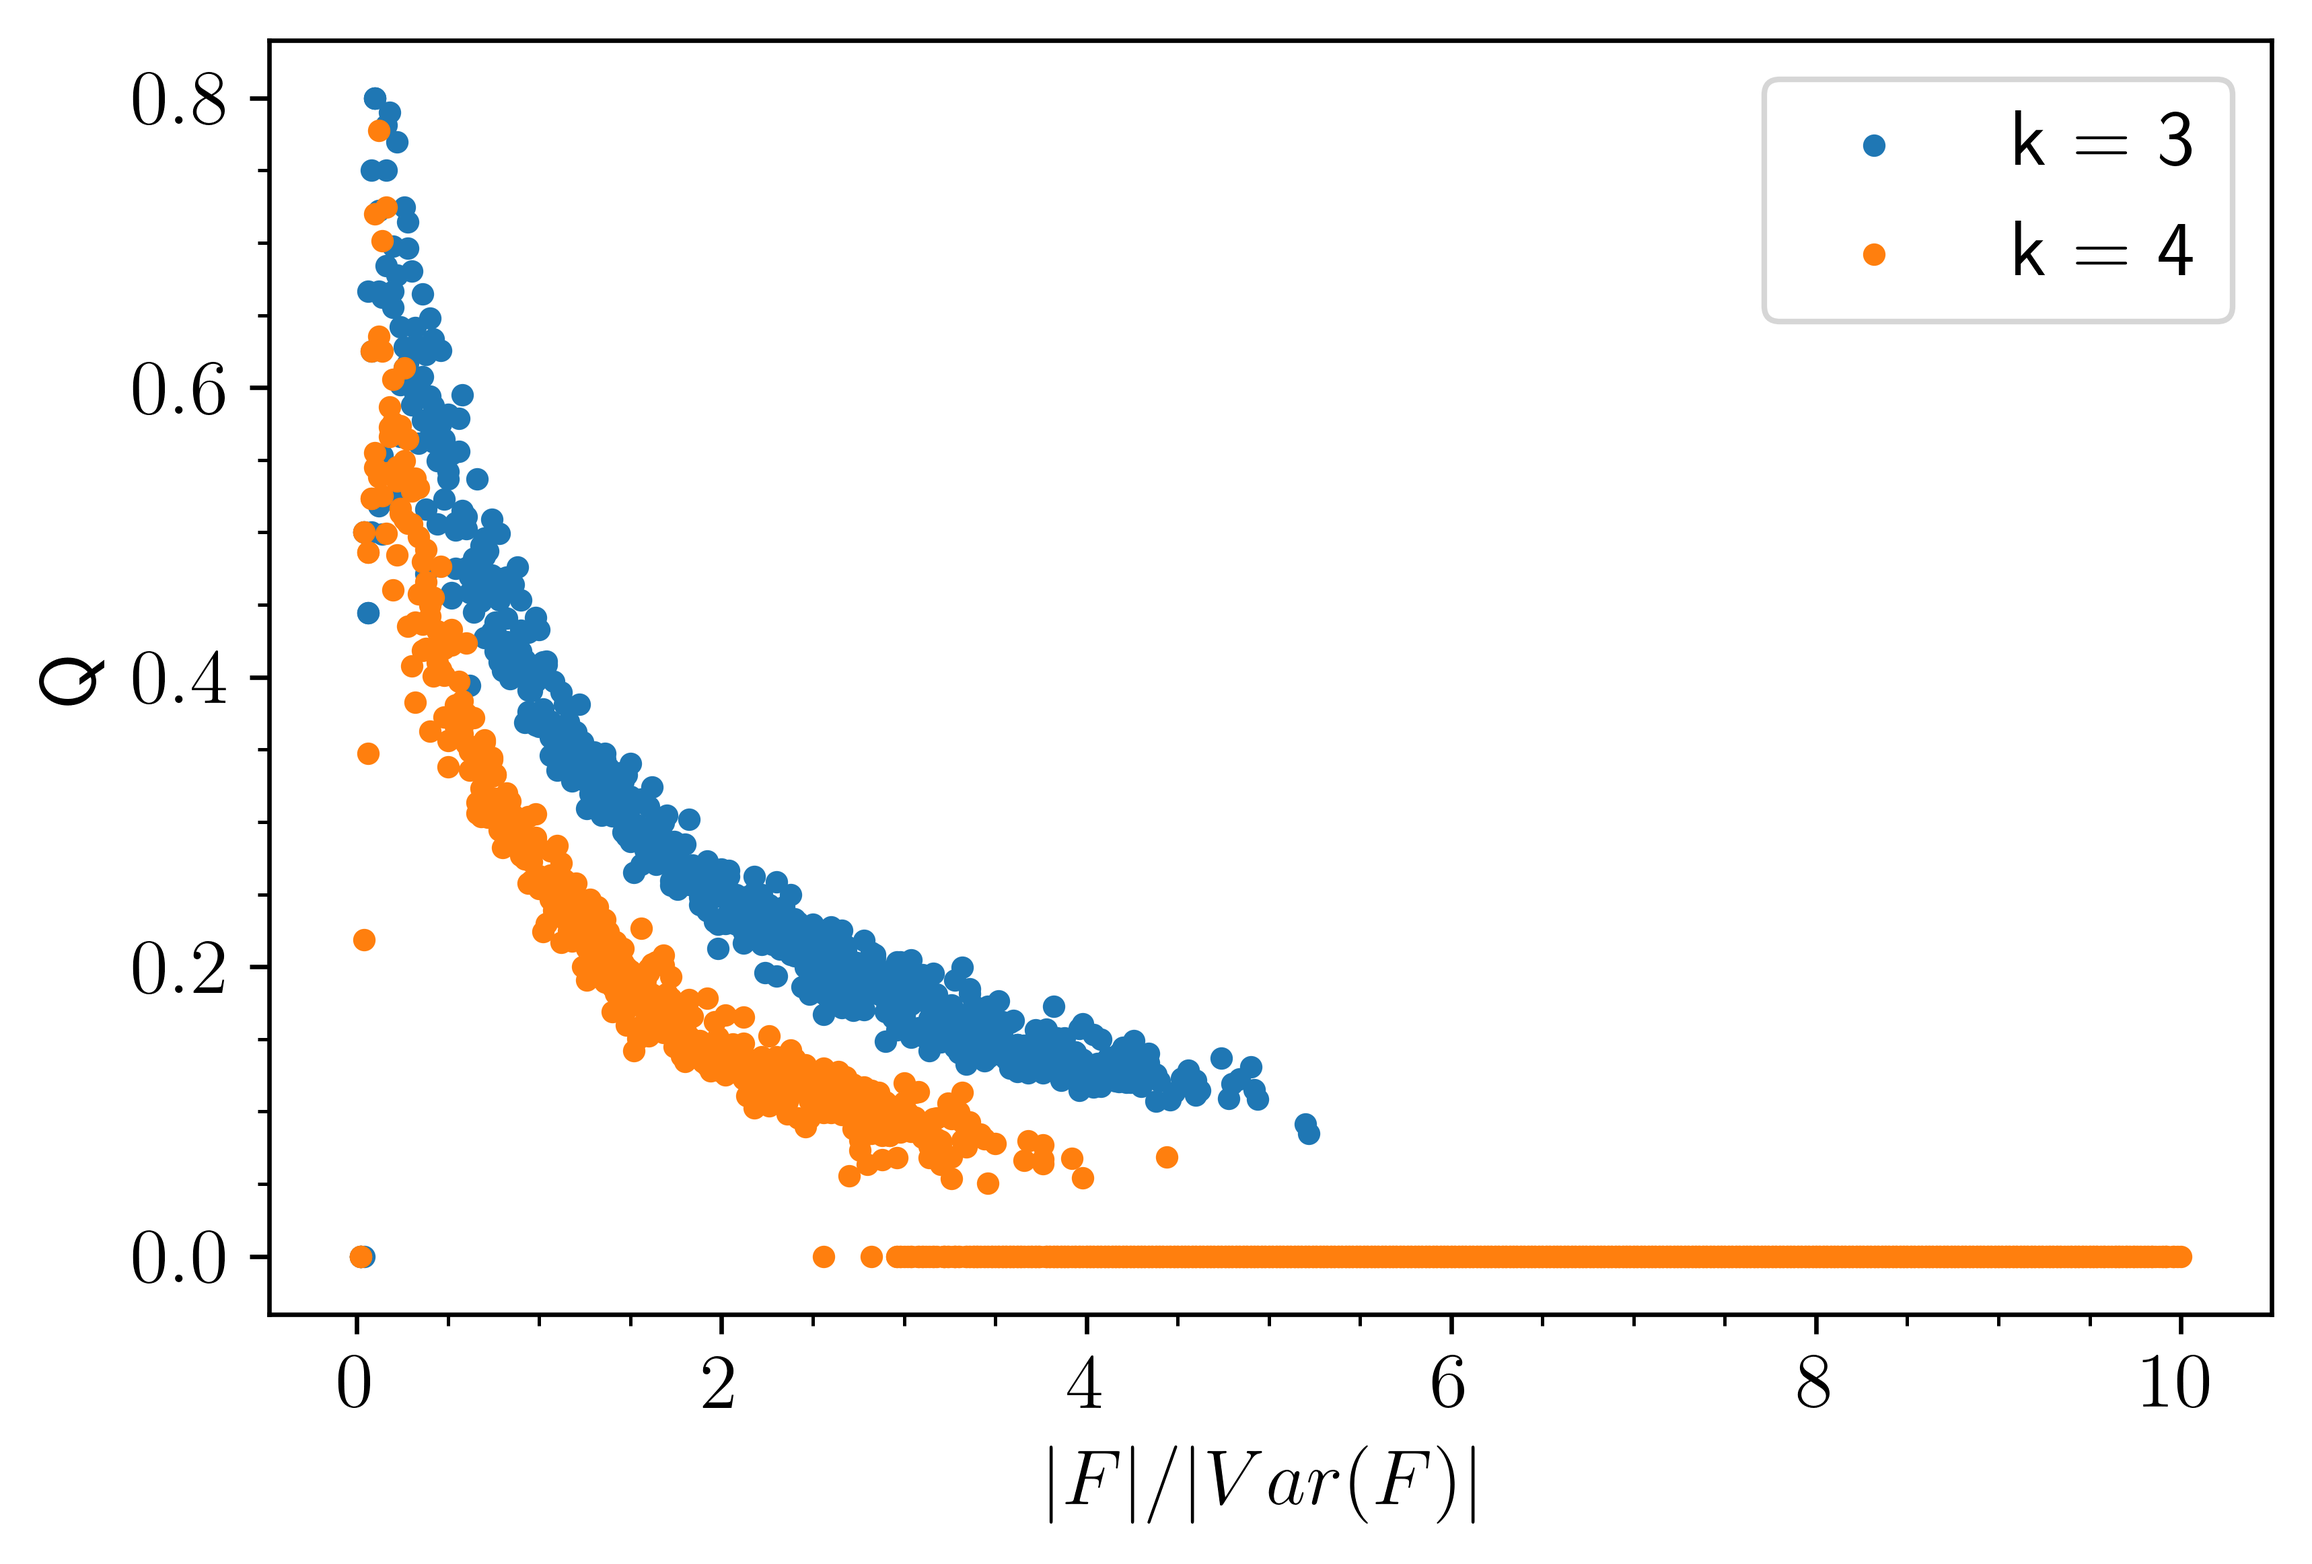
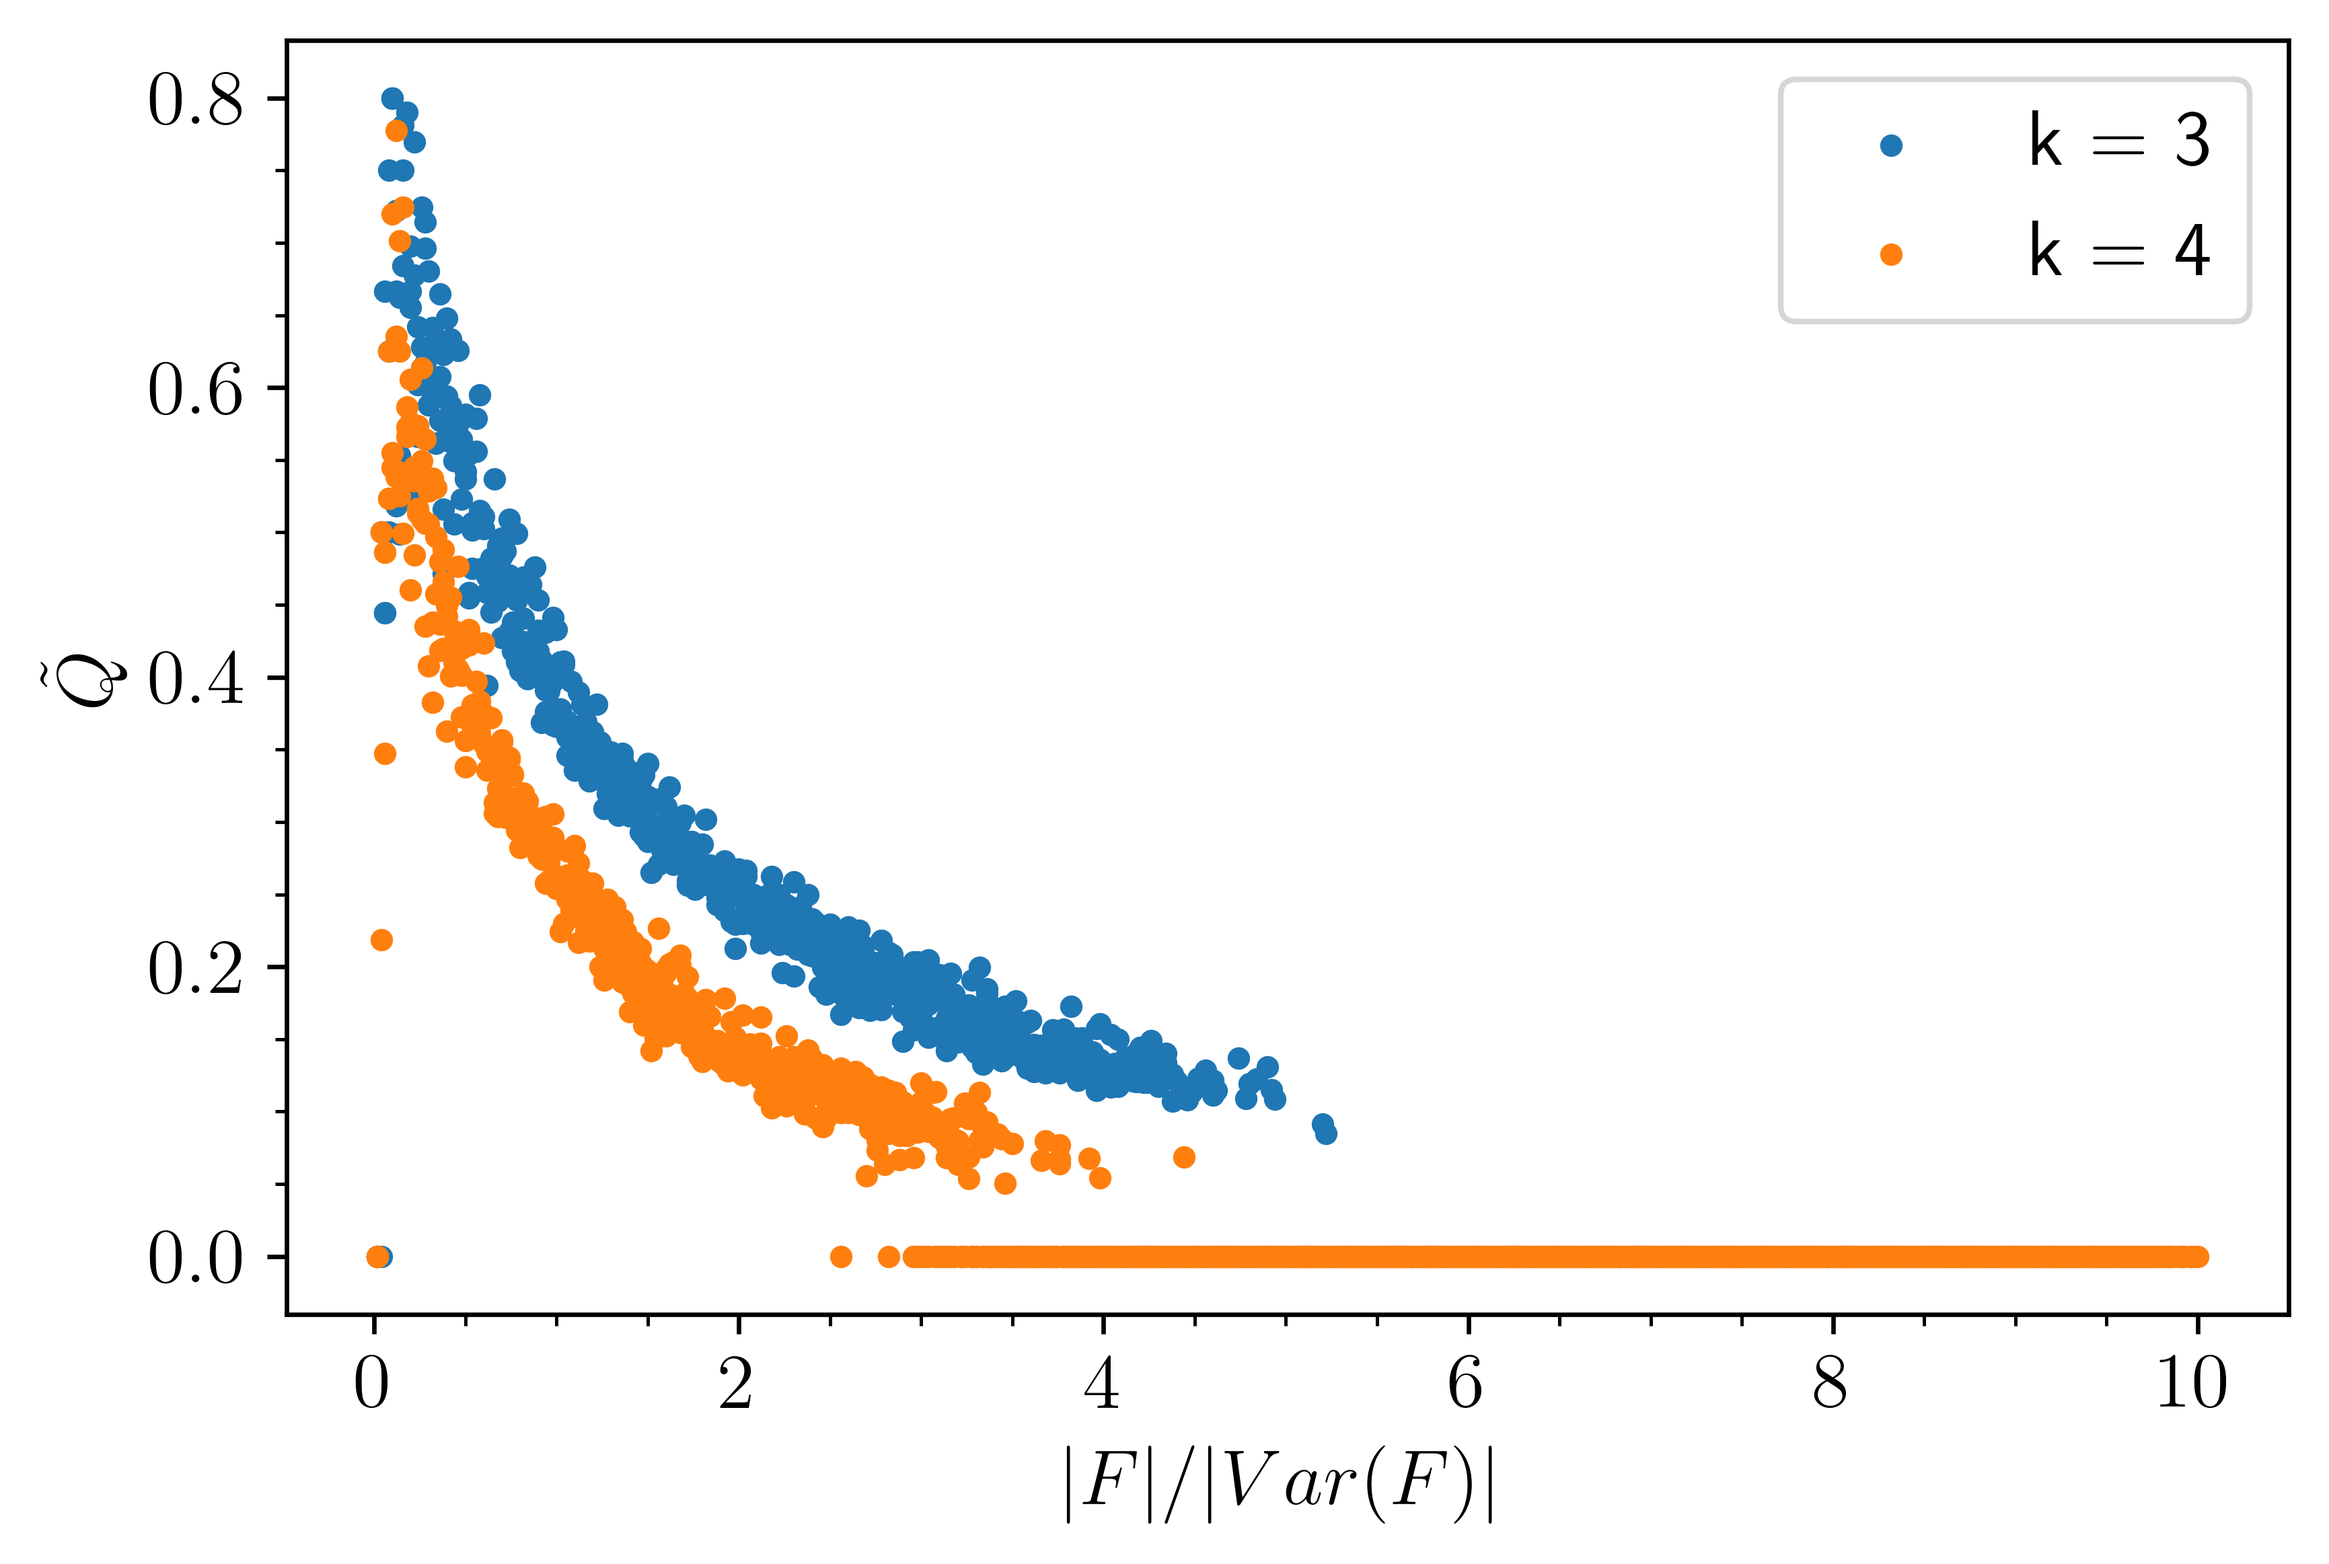
dist mod

diff --git a/RQ2_graphs/dist.py b/RQ2_graphs/dist.py
@@ -59,7 +59,7 @@ for i in range(3, 5):
 mpl.figure(q_f_fig)
 # mpl.grid()
 mpl.xlabel("$|F| / |Var(F)|$")
-mpl.ylabel("Q")
+mpl.ylabel("$\\tilde{Q}$")
 mpl.minorticks_on()
 mpl.legend()
 # mpl.xlim(right = 7)
@@ -69,7 +69,7 @@ mpl.savefig(f"mod_f.png", dpi = dpi, bbox_inches = 'tight')
 mpl.figure(q_rf_fig)
 # mpl.grid()
 mpl.xlabel("$log_2(|R_F|) / |Var(F)|$")
-mpl.ylabel("Q")
+mpl.ylabel("$\\tilde{Q}$")
 mpl.minorticks_on()
 mpl.legend()
 # mpl.xlim(right = 7)
